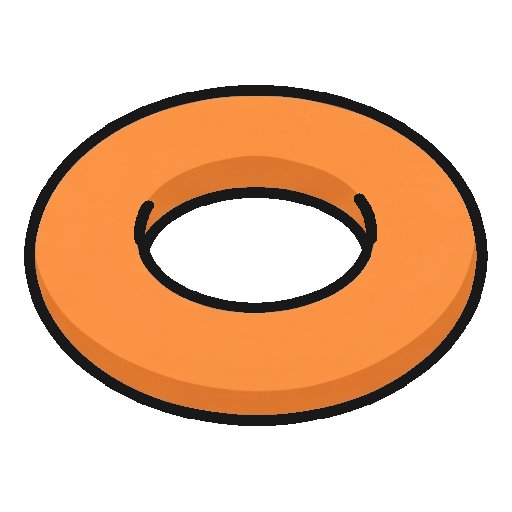
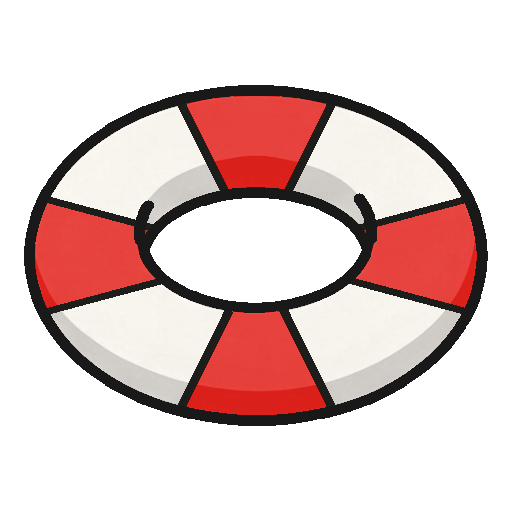
Piscine rééquilibrée : décor en couches calé sur la cour, casiers sur les côtés, pioche et punis au même poids, bouée de sauvetage (DP.1–DP.4)
Claude-Session: https://claude.ai/code/session_01QntoMPAFuwymCivRMfKhhF

diff --git a/src/game/ui/decorPiscine.ts b/src/game/ui/decorPiscine.ts
@@ -1,0 +1,85 @@
+/**
+ * Décor de la piscine en couches (DP.1). L'ancienne image plein écran plaçait le bassin selon la
+ * forme du téléphone, jamais sous la zone de jeu, et ses douches, plongeoirs et échelles
+ * ressemblaient à des pièces du jeu. Ici : un carrelage qui remplit l'écran, un bassin calé sur la
+ * cour (les vestiaires, c'est-à-dire les cabanes, restent sur le carrelage en haut et en bas), et
+ * des casiers sur les côtés quand l'écran est assez large pour en montrer.
+ */
+import type Phaser from 'phaser';
+import { BAS, DROITE, GAUCHE, HAUT } from '../config';
+import { versEcran } from '../disposition';
+
+/** Les textures sont dessinées à 3 × l'échelle du jeu (`scripts/couches-piscine.py`). */
+const K = 3;
+
+export const COUCHES_PISCINE = {
+  sol: 'carte-piscine-sol',
+  bassin: 'carte-piscine-bassin',
+  vague: 'carte-piscine-vague',
+  casiers: 'carte-piscine-casiers',
+} as const;
+
+/** Bord extérieur du bassin, en coordonnées de la cour (0 à 1) : à mi-chemin cabane / îlots. */
+const BASSIN = { gauche: -0.03, droite: 1.03, haut: 0.13, bas: 0.815 } as const;
+
+/** Les couloirs de nage : deux lignes sombres au fond de l'eau, terminées en T. */
+function couloirs(scene: Phaser.Scene, x0: number, y0: number, x1: number, y1: number): void {
+  const g = scene.add.graphics();
+  g.fillStyle(0x3bb1b3, 0.75);
+  const haut = y0 + 70;
+  const bas = y1 - 50;
+  // Pas de ligne au milieu : les allées et la surveillante y passent déjà.
+  for (const f of [0.2, 0.8]) {
+    const x = x0 + (x1 - x0) * f;
+    g.fillRoundedRect(x - 4, haut, 8, bas - haut, 4);
+    g.fillRoundedRect(x - 26, haut - 4, 52, 10, 5);
+    g.fillRoundedRect(x - 26, bas - 6, 52, 10, 5);
+  }
+}
+
+/** Vrai si les textures de la piscine en couches sont chargées. */
+export function couchesPiscinePretes(scene: Phaser.Scene): boolean {
+  return Object.values(COUCHES_PISCINE).every((k) => scene.textures.exists(k));
+}
+
+export function poserDecorPiscine(scene: Phaser.Scene): void {
+  // Le carrelage, sur tout l'écran visible.
+  scene.add
+    .tileSprite(GAUCHE, HAUT, (DROITE - GAUCHE) * K, (BAS - HAUT) * K, COUCHES_PISCINE.sol)
+    .setOrigin(0)
+    .setScale(1 / K);
+
+  const a = versEcran(BASSIN.gauche, BASSIN.haut);
+  const b = versEcran(BASSIN.droite, BASSIN.bas);
+  const l = b.x - a.x;
+  const h = b.y - a.y;
+  // Le bassin en 9 morceaux : les coins gardent leur trait, les bords s'étirent.
+  scene.add
+    .nineslice(a.x, a.y, COUCHES_PISCINE.bassin, undefined, l * K, h * K, 100, 100, 100, 100)
+    .setOrigin(0)
+    .setScale(1 / K);
+  // L'intérieur de l'eau : 25 px de jeu de margelle (trait compris), puis le trait intérieur.
+  const m = 27;
+  couloirs(scene, a.x + m, a.y + m, b.x - m, b.y - m);
+  scene.add
+    .tileSprite(a.x + m, a.y + m, (l - 2 * m) * K, 16 * K, COUCHES_PISCINE.vague)
+    .setOrigin(0)
+    .setScale(1 / K);
+
+  // Les casiers, sur les côtés, seulement s'il y a la place entre le bord de l'écran et le bassin.
+  const place = a.x - GAUCHE - 10;
+  if (place < 60) return;
+  const casiers = scene.textures.get(COUCHES_PISCINE.casiers).getSourceImage();
+  const largeur = Math.min(casiers.width / K, place);
+  const k = largeur / casiers.width;
+  const haut = casiers.height * k;
+  const milieu = (a.y + b.y) / 2;
+  for (const cote of [-1, 1]) {
+    for (const dy of [-0.52, 0.52]) {
+      scene.add
+        .image(cote < 0 ? GAUCHE : DROITE, milieu + dy * (haut + 24), COUCHES_PISCINE.casiers)
+        .setOrigin(0, 0.5)
+        .setScale(-cote * k, k);
+    }
+  }
+}

diff --git a/src/game/scenes/PartieScene.ts b/src/game/scenes/PartieScene.ts
@@ -75,6 +75,7 @@ import { animerMarionnette, Marionnette } from '../ui/marionnette';
 import { visuelCarte, type VisuelCarte } from '../cartes';
 import { choisirCarte } from '../../data/cartes';
 import { jouerIncrust } from '../ui/incrust';
+import { couchesPiscinePretes, poserDecorPiscine } from '../ui/decorPiscine';
 
 const RAYON_ILOT = 48;
 /** Haut de la cour, à défaut de cabane en haut (fiche de la cour). */
@@ -223,7 +224,9 @@ export class PartieScene extends Phaser.Scene {
     cadrer(this);
     this.cameras.main.setBackgroundColor(COULEURS.fond);
     const decor = this.textures.exists(this.visuel.decor) ? this.visuel.decor : DECOR;
-    if (this.textures.exists(decor)) {
+    if (this.donnees.carte === 'piscine' && couchesPiscinePretes(this)) {
+      poserDecorPiscine(this);
+    } else if (this.textures.exists(decor)) {
       decorPlein(this.add.image(LARGEUR / 2, HAUTEUR / 2, decor));
     }
     this.dyn = this.add.container(0, 0);
@@ -890,7 +893,7 @@ export class PartieScene extends Phaser.Scene {
       })
       .setOrigin(0.5);
     c.add(t);
-    c.setScale(1.35).setSize(64, 80);
+    c.setScale(1.05).setSize(64, 80);
     if (this.ctrl.phase === 'jeu') {
       c.setInteractive({ useHandCursor: true });
       c.on('pointerup', () =>
@@ -986,21 +989,29 @@ export class PartieScene extends Phaser.Scene {
         positionLieu(this.cour, bande, 'cpe'),
       ),
     );
-    // Le carton rouge (DF.36) : illustré, ou à défaut un bonnet d'âne dessiné en code.
-    if (this.textures.exists(PLATEAU.carton)) {
-      c.addAt(this.add.image(0, -6, PLATEAU.carton).setScale(82 / 512), 0);
-    } else {
-      const g = this.add.graphics();
-      this.dessinerBonnetAne(g, -6, 4, 0.82);
-      c.addAt(g, 0);
-    }
+    // Le carton rouge (DF.36), dessiné comme la carte de la pioche (même taille, même trait) pour
+    // que les deux lieux pèsent pareil à l'écran (DP.3).
+    const g = this.add.graphics();
+    const L = 56;
+    const H = 80;
+    forme(g, contourRect(-L / 2, -H / 2, L, H, 9, graineDe(7, bande.length), 0.5), {
+      remplissage: 0xe8463c,
+      trait: 3,
+      ombre: 4,
+    });
+    // Reflet de plastique brillant.
+    g.fillStyle(0xffffff, 0.45);
+    g.fillRoundedRect(-L / 2 + 8, -H / 2 + 8, 8, H - 30, 4);
+    g.fillCircle(-L / 2 + 12, H / 2 - 13, 4);
+    g.setRotation(-0.14);
+    c.addAt(g, 0);
     // Les exclus (les 3 derniers) et leur nombre.
     punis.slice(-3).forEach((el, k) => {
       const b = creerBadge(this, el.bande, el.role, 22);
       b.setPosition(-30 + k * 18, 42);
       c.add(b);
     });
-    c.add(this.compteurLieu(46, 42, punis.length === 0 ? '0' : `×${punis.length}`, bande));
+    c.add(this.compteurLieu(36, 34, `×${punis.length}`, bande));
   }
 
   /** Centre d'une zone, légèrement décalé pour ne pas gêner les allées. */

diff --git a/src/game/cartes.ts b/src/game/cartes.ts
@@ -90,6 +90,14 @@ function fichiers(carte: CarteId): Record<string, string> {
     [cle(carte, 'decor')]: `decor/${carte}.jpg`,
     [cle(carte, 'cabane')]: `cartes/${carte}/cabane.png`,
     [cle(carte, 'cabane-murs')]: `cartes/${carte}/cabane-murs.png`,
+    ...(carte === 'piscine'
+      ? Object.fromEntries(
+          ['sol', 'bassin', 'vague', 'casiers'].map((n) => [
+            cle(carte, n),
+            `cartes/${carte}/${n}.png`,
+          ]),
+        )
+      : {}),
     [cle(carte, 'surveillant')]:
       `skins/dodu/${carte === 'piscine' ? 'maitre-nageur' : 'cheftaine'}.png`,
   };

diff --git a/scripts/couches-piscine.py b/scripts/couches-piscine.py
@@ -1,0 +1,90 @@
+"""
+Décor de la piscine en couches (DP.1) : au lieu d'une image plein écran où le bassin tombe
+n'importe où selon la forme du téléphone, on fabrique des morceaux que le jeu pose autour de la
+zone de jeu. Tout est dessiné à 3 × l'échelle du jeu (1 px de jeu = 3 px de texture).
+
+  sol.png     carrelage qui se répète (4 × 4 carreaux de 36 px de jeu)
+  bassin.png  bord du bassin + eau, découpé en 9 morceaux par le jeu (coins fixes)
+  vague.png   la ligne d'eau du bord du haut, qui se répète en largeur
+  casiers.png une rangée de casiers prise dans l'ancien décor, pour habiller les côtés
+
+Usage : python3 scripts/couches-piscine.py public/decor/piscine.jpg public/cartes/piscine
+"""
+import math
+import sys
+
+from PIL import Image, ImageDraw
+
+source, dossier = sys.argv[1], sys.argv[2]
+K = 3  # px de texture par px de jeu
+
+CREME = (254, 242, 216)
+JOINT = (150, 139, 120)
+ENCRE = (29, 26, 22)
+EAU = (88, 201, 203)
+BEIGE = (232, 216, 180)
+
+
+def onde(t: float, graine: float) -> float:
+    """Petit tremblé périodique (période 1) pour un trait fait main."""
+    return math.sin(2 * math.pi * (t + graine)) * 0.6 + math.sin(4 * math.pi * (t + graine * 1.7)) * 0.4
+
+
+# --- Sol : carreaux de 36 px de jeu, joints de 2 px, tremblé qui se raccorde ---------------
+C = 36 * K
+N = 4
+T = C * N
+sol = Image.new('RGB', (T, T), CREME)
+d = ImageDraw.Draw(sol)
+for i in range(N):
+    for vertical in (True, False):
+        pts = []
+        for s in range(0, T + 1, 6):
+            dec = onde(s / T, i * 0.37 + (0.5 if vertical else 0)) * 1.6
+            p = i * C + dec
+            pts.append((p, s) if vertical else (s, p))
+        d.line(pts, fill=JOINT, width=2 * K)
+        # Le joint qui touche le bord se répète de l'autre côté pour raccorder.
+        if i == 0:
+            d.line([(x + T, y) if vertical else (x, y + T) for x, y in pts], fill=JOINT, width=2 * K)
+sol.save(f'{dossier}/sol.png', optimize=True)
+
+# --- Bassin : trait, margelle crème, trait, eau. 9 morceaux de 100 px -----------------------
+B = 480
+bassin = Image.new('RGBA', (B, B), (0, 0, 0, 0))
+d = ImageDraw.Draw(bassin)
+trait = 2 * K
+margelle = 23 * K
+d.rounded_rectangle([0, 0, B - 1, B - 1], radius=8 * K, fill=ENCRE)
+d.rounded_rectangle([trait, trait, B - 1 - trait, B - 1 - trait], radius=7 * K, fill=CREME)
+e = trait + margelle
+d.rounded_rectangle([e, e, B - 1 - e, B - 1 - e], radius=4 * K, fill=ENCRE)
+d.rounded_rectangle([e + trait, e + trait, B - 1 - e - trait, B - 1 - e - trait], radius=3 * K, fill=EAU)
+bassin.save(f'{dossier}/bassin.png', optimize=True)
+
+# --- Ligne d'eau : bande beige au bord du haut, bas ondulé, se répète tous les 200 px ------
+LV, HV = 400, 16 * K
+vague = Image.new('RGBA', (LV, HV), (0, 0, 0, 0))
+d = ImageDraw.Draw(vague)
+pts = [(x, HV - 4 * K - 3 * K * (0.5 + 0.5 * math.sin(2 * math.pi * x / 200))) for x in range(0, LV + 1, 4)]
+d.polygon([(0, 0), (LV, 0)] + pts[::-1], fill=BEIGE)
+d.line(pts, fill=ENCRE, width=2 * K)
+vague.save(f'{dossier}/vague.png', optimize=True)
+
+# --- Casiers : une porte de l'ancien décor répétée, bouclée par le cadre, tournée -----------
+deco = Image.open(source).convert('RGB')
+# Coordonnées dans l'image 1080 × 1920 : rangée du haut à gauche.
+porte = deco.crop((66, 30, 147, 246))
+cadre_d = deco.crop((375, 30, 394, 246))
+cadre_g = cadre_d.transpose(Image.FLIP_LEFT_RIGHT)
+n = 6
+rangee = Image.new('RGB', (cadre_g.width + n * porte.width + cadre_d.width, porte.height), CREME)
+rangee.paste(cadre_g, (0, 0))
+for k in range(n):
+    rangee.paste(porte, (cadre_g.width + k * porte.width, 0))
+rangee.paste(cadre_d, (cadre_g.width + n * porte.width, 0))
+# Échelle du jeu (720 / 1080) puis × K ; portes tournées vers le bassin (rangée du côté gauche de l’écran).
+f = 720 / 1080 * K
+rangee = rangee.resize((round(rangee.width * f), round(rangee.height * f)), Image.LANCZOS)
+rangee.rotate(90, expand=True).save(f'{dossier}/casiers.png', optimize=True)
+print('ok')

diff --git a/docs/decisions.md b/docs/decisions.md
@@ -222,3 +222,12 @@ Clément : « Les pictos animés qui arrivent dans le jeu doivent être en 2D. R
 - **DV.3 — Goûters sur fond manga animé (Clément : « un fond dynamique en mode manga en motion design », puis « Fond en code, gratuit », 27/11).** Le fond crème prolongé est remplacé par un fond dessiné en code (`ui/fondManga.ts`) : éclats qui tournent à la couleur de la bande qui ramasse, trame de points, lignes de vitesse qui scintillent vers le centre. La vidéo carrée du goûter est posée dans une case de manga (bord blanc + encre, penchée), qui arrive d'un coup. Rien n'est généré, et le même fond sert pour toutes les cartes. À étendre aux vidéos de pouvoir seulement si Clément le demande (il faudrait détourer les élèves ou refaire les vidéos).
 - **DV.4 — Fond manga « éclairs » derrière les élèves (Clément : « Je valide comme ça », 27/11).** Pour les vidéos de pouvoir, le décor réel est remplacé par des diagonales nettes brisées comme des éclairs, redessinées par à-coups (12 fois par seconde), sur la couleur de l'équipe. Fait au montage, sans rien générer : la Fouine (tournée sur fond bleu) est détourée par couleur ; Chouchou, Rapporteuse, Délégué et Petit sont détourés automatiquement (rembg isnet). Chacun a son angle et son tirage d'éclairs (« une petite variation », Clément). Fichiers `<rôle>-rouge.mp4`. Le Contagieux (ancien style, final en plein écran vert) garde sa vidéo. Les goûters gardent le fond « zoom » (DV.3), qui prend maintenant la couleur de l'équipe qui ramasse, y compris les Vers et les Aliens. Depuis l'arrivée des équipes (DB.5), les vidéos de pouvoir montrent des élèves en débardeur rouge, donc elles ne passent que pour l'équipe des Rouges. Les autres équipes gardent le panneau en attendant leurs vidéos.
 - **DV.5 — Les Bleus ont leurs vidéos de pouvoir, sans rien générer (Clément : « Ne peut-on pas juste retoucher la couleur de leur chasuble sur les vidéos existantes ? », 27/11).** Chouchou, Rapporteuse, Fouine, Délégué et Petit sont recolorés image par image : les rouges très saturés du maillot passent au bleu pervenche, en gardant les ombres. Seules les grandes taches très saturées sont prises, pour que les joues, le nez et les mains restent intacts. Ils sont posés sur un fond éclairs bleu, avec un autre tirage et un autre angle que les Rouges. Fichiers `<rôle>-bleu.mp4`. `videoPouvoir` choisit la vidéo selon l'équipe : les Vers, les Aliens et le Contagieux bleu gardent le panneau. Les 9 cr d'images clés prévus pour les Bleus n'ont pas été dépensés.
+
+## Piscine rééquilibrée (27/11)
+
+Clément, sur sa capture : « La piscine est trop chargée en haut, la zone de jeu n'est pas centrée en hauteur, le décor est trop vide sur les côtés », puis « deux bouées rondes sont trop proches graphiquement » et « Punis et Pioche n'ont pas le même impact visuel, notamment à cause de l'épaisseur du trait ».
+
+- **DP.1 — Le décor de la piscine est posé en couches autour de la cour.** L'ancienne image plein écran plaçait son bassin selon la forme du téléphone, jamais sous les îlots, et ses douches, plongeoirs, échelles et rangées de ronds ressemblaient à des pièces du jeu. Maintenant (`ui/decorPiscine.ts`) : un carrelage qui remplit tout l'écran, un bassin calé sur la cour (bord à mi-chemin entre chaque cabane et ses deux îlots, donc les deux vestiaires sont sur le carrelage, à la même distance de l'eau), une ligne d'eau en haut et deux couloirs de nage. Les textures sont fabriquées sans rien générer par `scripts/couches-piscine.py`, à partir des couleurs et des casiers de l'ancien décor. L'ancienne image reste pour la vignette de choix et en secours.
+- **DP.2 — Des casiers sur les côtés, seulement quand il y a la place.** Sur un écran plus court que 9:16 (navigateur intégré, tablette), on voit plus large : deux rangées de casiers de chaque côté, collées au bord de l'écran, portes vers le bassin. Sur un téléphone allongé, il n'y a pas la place et on ne voit que le carrelage. Rien n'est posé sur la cour elle-même.
+- **DP.3 — Pioche et Punis au même poids.** Le carton rouge illustré avait un trait trois fois plus fin que la pioche dessinée en code. Il est redessiné comme une carte de la pioche (même taille, même trait, même ombre, penché, reflet brillant), et son compteur est au même endroit et au même format (« ×0 »). Le carton illustré reste pour le panneau plein écran. L'éventail du rang adverse est réduit (×1,35 → ×1,05) pour alléger le haut.
+- **DP.4 — La bouée devient une bouée de sauvetage.** La bouée orange ressemblait trop au beignet rose : elle est recolorée en bouée rouge et blanche à quatre bandes (même dessin, même trait), le beignet ne change pas.
